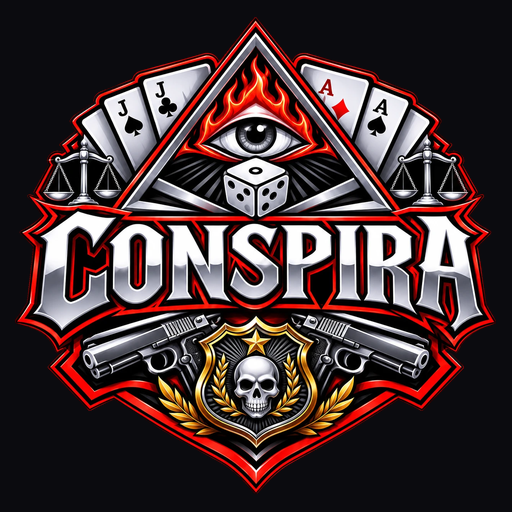
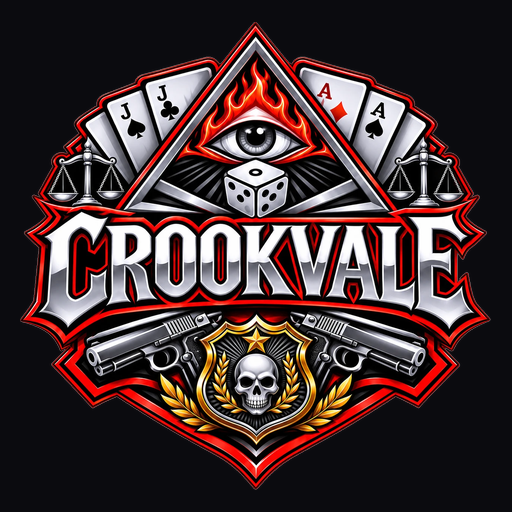
8.3.0: the game is now Crookvale
New name everywhere players see it (titles, app name, landing, guide, legal
pages, alerts, share text) and the new Crookvale wordmark, badge, mark and
icons, cut out from the owner's artwork. Internal keys unchanged.

Claude-Session: https://claude.ai/code/session_01LUXrqaFi1CqAbqQPPiY7W5

diff --git a/src/components/screens.tsx b/src/components/screens.tsx
@@ -25,7 +25,7 @@ export function LogoMark({ size = 32 }: { size?: number }) {
   return <img className="logo-mark" src="/brand/mark.webp" width={size} height={Math.round(size * 1.17)} alt="" aria-hidden />;
 }
 
-export const GAME_NAME = "Conspira";
+export const GAME_NAME = "Crookvale";
 export const SLOGAN = "Every move has an agenda.";
 
 export function Logo({ small = false }: { small?: boolean }) {
@@ -33,7 +33,7 @@ export function Logo({ small = false }: { small?: boolean }) {
     <div className={`logo ${small ? "logo-sm" : ""}`}>
       {/* eslint-disable-next-line @next/next/no-img-element */}
       {small ? (
-        <img className="logo-word-img" src="/brand/wordmark-400.webp" width={170} height={50} alt={GAME_NAME} />
+        <img className="logo-word-img" src="/brand/wordmark-400.webp" width={170} height={49} alt={GAME_NAME} />
       ) : (
         <img className="logo-emblem" src="/brand/logo-640.webp" width={240} height={238} alt={GAME_NAME} />
       )}
@@ -400,7 +400,7 @@ export function AgeBlocked({ game }: { game: GameApi }) {
       <div className="landing-card glass age-gate">
         <Logo />
         <h2>Sorry</h2>
-        <p className="muted">Conspira isn&apos;t available to you. It has crime, violence and gambling themes, and it&apos;s made for adults.</p>
+        <p className="muted">Crookvale isn&apos;t available to you. It has crime, violence and gambling themes, and it&apos;s made for adults.</p>
         {game.account && <button className="btn btn-ghost" onClick={() => game.auth("logout")}>Log out</button>}
       </div>
     </div>

diff --git a/src/game/push.ts b/src/game/push.ts
@@ -60,13 +60,13 @@ export function dueAlerts(p: Player, since: number, now: number): Alert[] {
     add({ kind: "school", title: "A letter from the dean", body: "The school has made a decision about you.", url: "/?go=tab:profile", at: p.application.decideAt });
   }
   const news = (p.inbox ?? []).filter((n) => !n.read && within(n.at)).sort((a, b) => a.at - b.at);
-  for (const n of news) add({ kind: "street", title: n.fromName ?? "Conspira", body: n.text, url: "/?go=tab:people", at: n.at });
+  for (const n of news) add({ kind: "street", title: n.fromName ?? "Crookvale", body: n.text, url: "/?go=tab:people", at: n.at });
 
   out.sort((a, b) => a.at - b.at);
   if (out.length <= PUSH.maxPerTick) return out;
   const keep = out.slice(0, PUSH.maxPerTick - 1);
   const rest = out.length - keep.length;
-  return [...keep, { kind: "street", title: "Conspira", body: `${rest} more things happened while you were away.`, url: "/", at: now }];
+  return [...keep, { kind: "street", title: "Crookvale", body: `${rest} more things happened while you were away.`, url: "/", at: now }];
 }
 
 /** Adds (or refreshes) a phone's subscription. */

diff --git a/src/components/InfoPage.tsx b/src/components/InfoPage.tsx
@@ -4,7 +4,7 @@ import { AGE } from "@/game/age";
 
 /** Details only the owner can fill in. Until `final` is true the legal pages say they're a draft. */
 export const LEGAL = {
-  studio: "the Conspira team",
+  studio: "the Crookvale team",
   contact: "the Report button in the game, or the contact address we'll publish here before launch",
   updated: "7 November 2026",
   minAge: AGE.min,
@@ -22,9 +22,9 @@ export function InfoPage({ title, kicker, draft, children }: { title: string; ki
   return (
     <div className="info-page">
       <header className="info-head">
-        <a href="/" className="info-back" aria-label="Conspira, back to the game">
+        <a href="/" className="info-back" aria-label="Crookvale, back to the game">
           {/* eslint-disable-next-line @next/next/no-img-element */}
-          <img src="/brand/wordmark-400.webp" alt="Conspira" width={150} height={44} />
+          <img src="/brand/wordmark-400.webp" alt="Crookvale" width={150} height={43} />
         </a>
         <nav>
           {INFO_LINKS.map((l) => (

diff --git a/src/app/layout.tsx b/src/app/layout.tsx
@@ -15,7 +15,7 @@ const body = Plus_Jakarta_Sans({ weight: ["400", "500", "600", "700", "800"], su
 const display = Outfit({ weight: ["500", "600", "700", "800", "900"], subsets: ["latin"], display: "swap", variable: "--font-display" });
 
 export const metadata: Metadata = {
-  title: "Conspira · Every move has an agenda",
+  title: "Crookvale · Every move has an agenda",
   description: "Every move has an agenda. Framed, jailed and released with nothing: climb from the Gutter to power, and decide whose side you're on.",
   manifest: "/manifest.webmanifest",
   icons: {
@@ -25,7 +25,7 @@ export const metadata: Metadata = {
     ],
     apple: "/brand/apple-touch-icon.png",
   },
-  appleWebApp: { capable: true, title: "Conspira", statusBarStyle: "black-translucent" },
+  appleWebApp: { capable: true, title: "Crookvale", statusBarStyle: "black-translucent" },
 };
 
 export const viewport: Viewport = {

diff --git a/src/app/terms/page.tsx b/src/app/terms/page.tsx
@@ -1,13 +1,13 @@
 import type { Metadata } from "next";
 import { InfoPage, LEGAL } from "@/components/InfoPage";
 
-export const metadata: Metadata = { title: "Terms of service · Conspira", description: "The terms for playing Conspira." };
+export const metadata: Metadata = { title: "Terms of service · Crookvale", description: "The terms for playing Crookvale." };
 
 export default function TermsPage() {
   return (
     <InfoPage kicker="Terms" title="Terms of service" draft>
       <p className="lead">
-        These terms are the agreement between you and {LEGAL.studio} when you play Conspira. By playing you agree to them and to
+        These terms are the agreement between you and {LEGAL.studio} when you play Crookvale. By playing you agree to them and to
         the <a href="/rules">player rules</a>. If you don&apos;t agree, please don&apos;t play.
       </p>
 

diff --git a/src/app/guide/page.tsx b/src/app/guide/page.tsx
@@ -1,13 +1,13 @@
 import type { Metadata } from "next";
 import { InfoPage } from "@/components/InfoPage";
 
-export const metadata: Metadata = { title: "How to play · Conspira", description: "How Conspira works, from the Gutter to the top." };
+export const metadata: Metadata = { title: "How to play · Crookvale", description: "How Crookvale works, from the Gutter to the top." };
 
 export default function GuidePage() {
   return (
     <InfoPage kicker="Guide" title="How to play">
       <p className="lead">
-        You were framed, jailed and let out with nothing. Conspira is about climbing back: work, learn, pick a side, and decide what
+        You were framed, jailed and let out with nothing. Crookvale is about climbing back: work, learn, pick a side, and decide what
         kind of person you become on the way up. Here&apos;s how the city works.
       </p>
 

diff --git a/src/app/refunds/page.tsx b/src/app/refunds/page.tsx
@@ -1,13 +1,13 @@
 import type { Metadata } from "next";
 import { InfoPage, LEGAL } from "@/components/InfoPage";
 
-export const metadata: Metadata = { title: "Refund policy · Conspira", description: "Refunds for Favors bought in Conspira." };
+export const metadata: Metadata = { title: "Refund policy · Crookvale", description: "Refunds for Favors bought in Crookvale." };
 
 export default function RefundsPage() {
   return (
     <InfoPage kicker="Refunds" title="Refund policy" draft>
       <p className="lead">
-        Favors are a virtual currency for looks in Conspira. Payments are handled by our reseller, Lemon Squeezy, who appears on
+        Favors are a virtual currency for looks in Crookvale. Payments are handled by our reseller, Lemon Squeezy, who appears on
         your statement and handles tax and receipts.
       </p>
 

diff --git a/src/app/rules/page.tsx b/src/app/rules/page.tsx
@@ -1,13 +1,13 @@
 import type { Metadata } from "next";
 import { InfoPage } from "@/components/InfoPage";
 
-export const metadata: Metadata = { title: "Player rules · Conspira", description: "The rules every Conspira player agrees to." };
+export const metadata: Metadata = { title: "Player rules · Crookvale", description: "The rules every Crookvale player agrees to." };
 
 export default function RulesPage() {
   return (
     <InfoPage kicker="Rules" title="Player rules">
       <p className="lead">
-        Conspira is a game about crime. Inside the game, betray, rob and outplay each other as much as you like. These rules are
+        Crookvale is a game about crime. Inside the game, betray, rob and outplay each other as much as you like. These rules are
         about how you treat real people and the game itself.
       </p>
 

diff --git a/src/app/privacy/page.tsx b/src/app/privacy/page.tsx
@@ -1,7 +1,7 @@
 import type { Metadata } from "next";
 import { InfoPage, LEGAL } from "@/components/InfoPage";
 
-export const metadata: Metadata = { title: "Privacy · Conspira", description: "What Conspira stores about you and why." };
+export const metadata: Metadata = { title: "Privacy · Crookvale", description: "What Crookvale stores about you and why." };
 
 export default function PrivacyPage() {
   return (
@@ -65,7 +65,7 @@ export default function PrivacyPage() {
 
       <h2>Children</h2>
       <p>
-        Conspira is for players aged {LEGAL.minAge} and up. If we learn a younger child has an account, we&apos;ll delete it.
+        Crookvale is for players aged {LEGAL.minAge} and up. If we learn a younger child has an account, we&apos;ll delete it.
       </p>
 
       <h2>Changes</h2>

diff --git a/src/components/storyline.tsx b/src/components/storyline.tsx
@@ -42,9 +42,9 @@ export function StoryLine({ game }: { game: GameApi }) {
 
   const share = async () => {
     const lines = [...view.journal].slice(-8).map((e) => `Day ${day(e.at)}: ${e.text}`);
-    const text = `${view.name} in Conspira\n${lines.join("\n")}\n\nEvery move has an agenda.`;
+    const text = `${view.name} in Crookvale\n${lines.join("\n")}\n\nEvery move has an agenda.`;
     try {
-      if (navigator.share) await navigator.share({ title: `${view.name} · Conspira`, text, url: window.location.origin });
+      if (navigator.share) await navigator.share({ title: `${view.name} · Crookvale`, text, url: window.location.origin });
       else {
         await navigator.clipboard.writeText(`${text}\n${window.location.origin}`);
         setCopied(true);

diff --git a/src/game/age.ts b/src/game/age.ts
@@ -1,11 +1,11 @@
-// Who may play. Conspira has crime, guns, drugs and a casino with simulated gambling, so it's for
+// Who may play. Crookvale has crime, guns, drugs and a casino with simulated gambling, so it's for
 // adults. The form asks for a birth date without saying the minimum age (a neutral age gate),
 // and the date is kept privately on the character. Change the age here.
 import { GameError } from "./types";
 
 export const AGE = { min: 18 };
 
-export const UNDERAGE = "Sorry, Conspira isn't available to you.";
+export const UNDERAGE = "Sorry, Crookvale isn't available to you.";
 
 /** Checks a "YYYY-MM-DD" birth date. Returns it, or throws a player-facing error. */
 export function parseBirthDate(raw: unknown, now: number): string {

diff --git a/public/sw.js b/public/sw.js
@@ -25,9 +25,9 @@ self.addEventListener("push", (event) => {
   try {
     data = event.data ? event.data.json() : {};
   } catch (e) {
-    data = { title: "Conspira", body: event.data ? event.data.text() : "" };
+    data = { title: "Crookvale", body: event.data ? event.data.text() : "" };
   }
-  const title = data.title || "Conspira";
+  const title = data.title || "Crookvale";
   event.waitUntil(
     self.registration.showNotification(title, {
       body: data.body || "",
